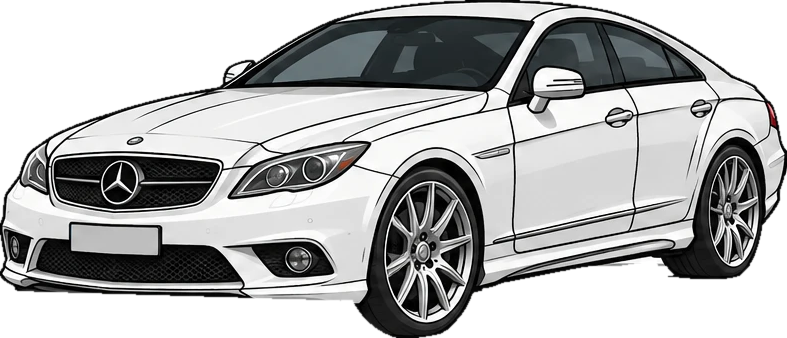
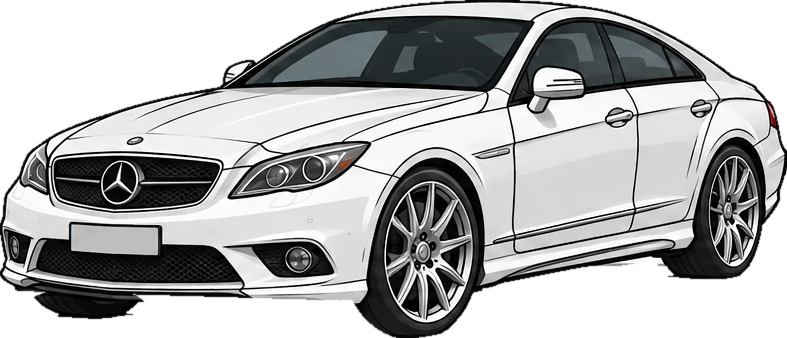
CLS: вернул дальнее переднее колесо под бампером (срезалось вместе с тенью)
Claude-Session: https://claude.ai/code/session_011h7oDPmmegoivb4yRZ71Zj

Changed region(s): [[0.0305, 0.858, 0.183, 0.9467]]

diff --git a/reels/perekupy/kit/img/cls/cut.py b/reels/perekupy/kit/img/cls/cut.py
@@ -1,4 +1,4 @@
-# (12.11) вырезка заново: python ../_tools/cut_sheet.py . cls --shadow-l=46 → python fix34.py cls_34.png "[(415,268,70,72),(712,250,56,70)]" "[(0,290),(340,300),(470,290),(640,262),(787,240)]" (дочистка тени под кузовом) → python recolor2.py (чёрный и вишнёвый)
+# (12.11) вырезка заново: python ../_tools/cut_sheet.py . cls --shadow-l=46 → python fix34.py cls_34.png "[(415,268,70,72),(712,250,56,70),(86,304,58,17)]" (третий эллипс — дальнее переднее колесо под бампером) "[(0,290),(340,300),(470,290),(640,262),(787,240)]" (дочистка тени под кузовом) → python recolor2.py (чёрный и вишнёвый)
 # python cut.py → prado_side.png (сбоку, мордой вправо) и prado_34.png (3/4 спереди): ВАЗ-2114 владельца (корч: каркас, растяжка, спойлер) без белого фона и без тени.
 # Тень под машиной того же серого, что и кузов, — убираем её полосой: ниже начала тени оставляем только тёмные шины; затем
 # белое, отрезанное от краёв (просвет между порогом и тенью), тоже фон; кайма по контуру — срезаем на 1 px.
